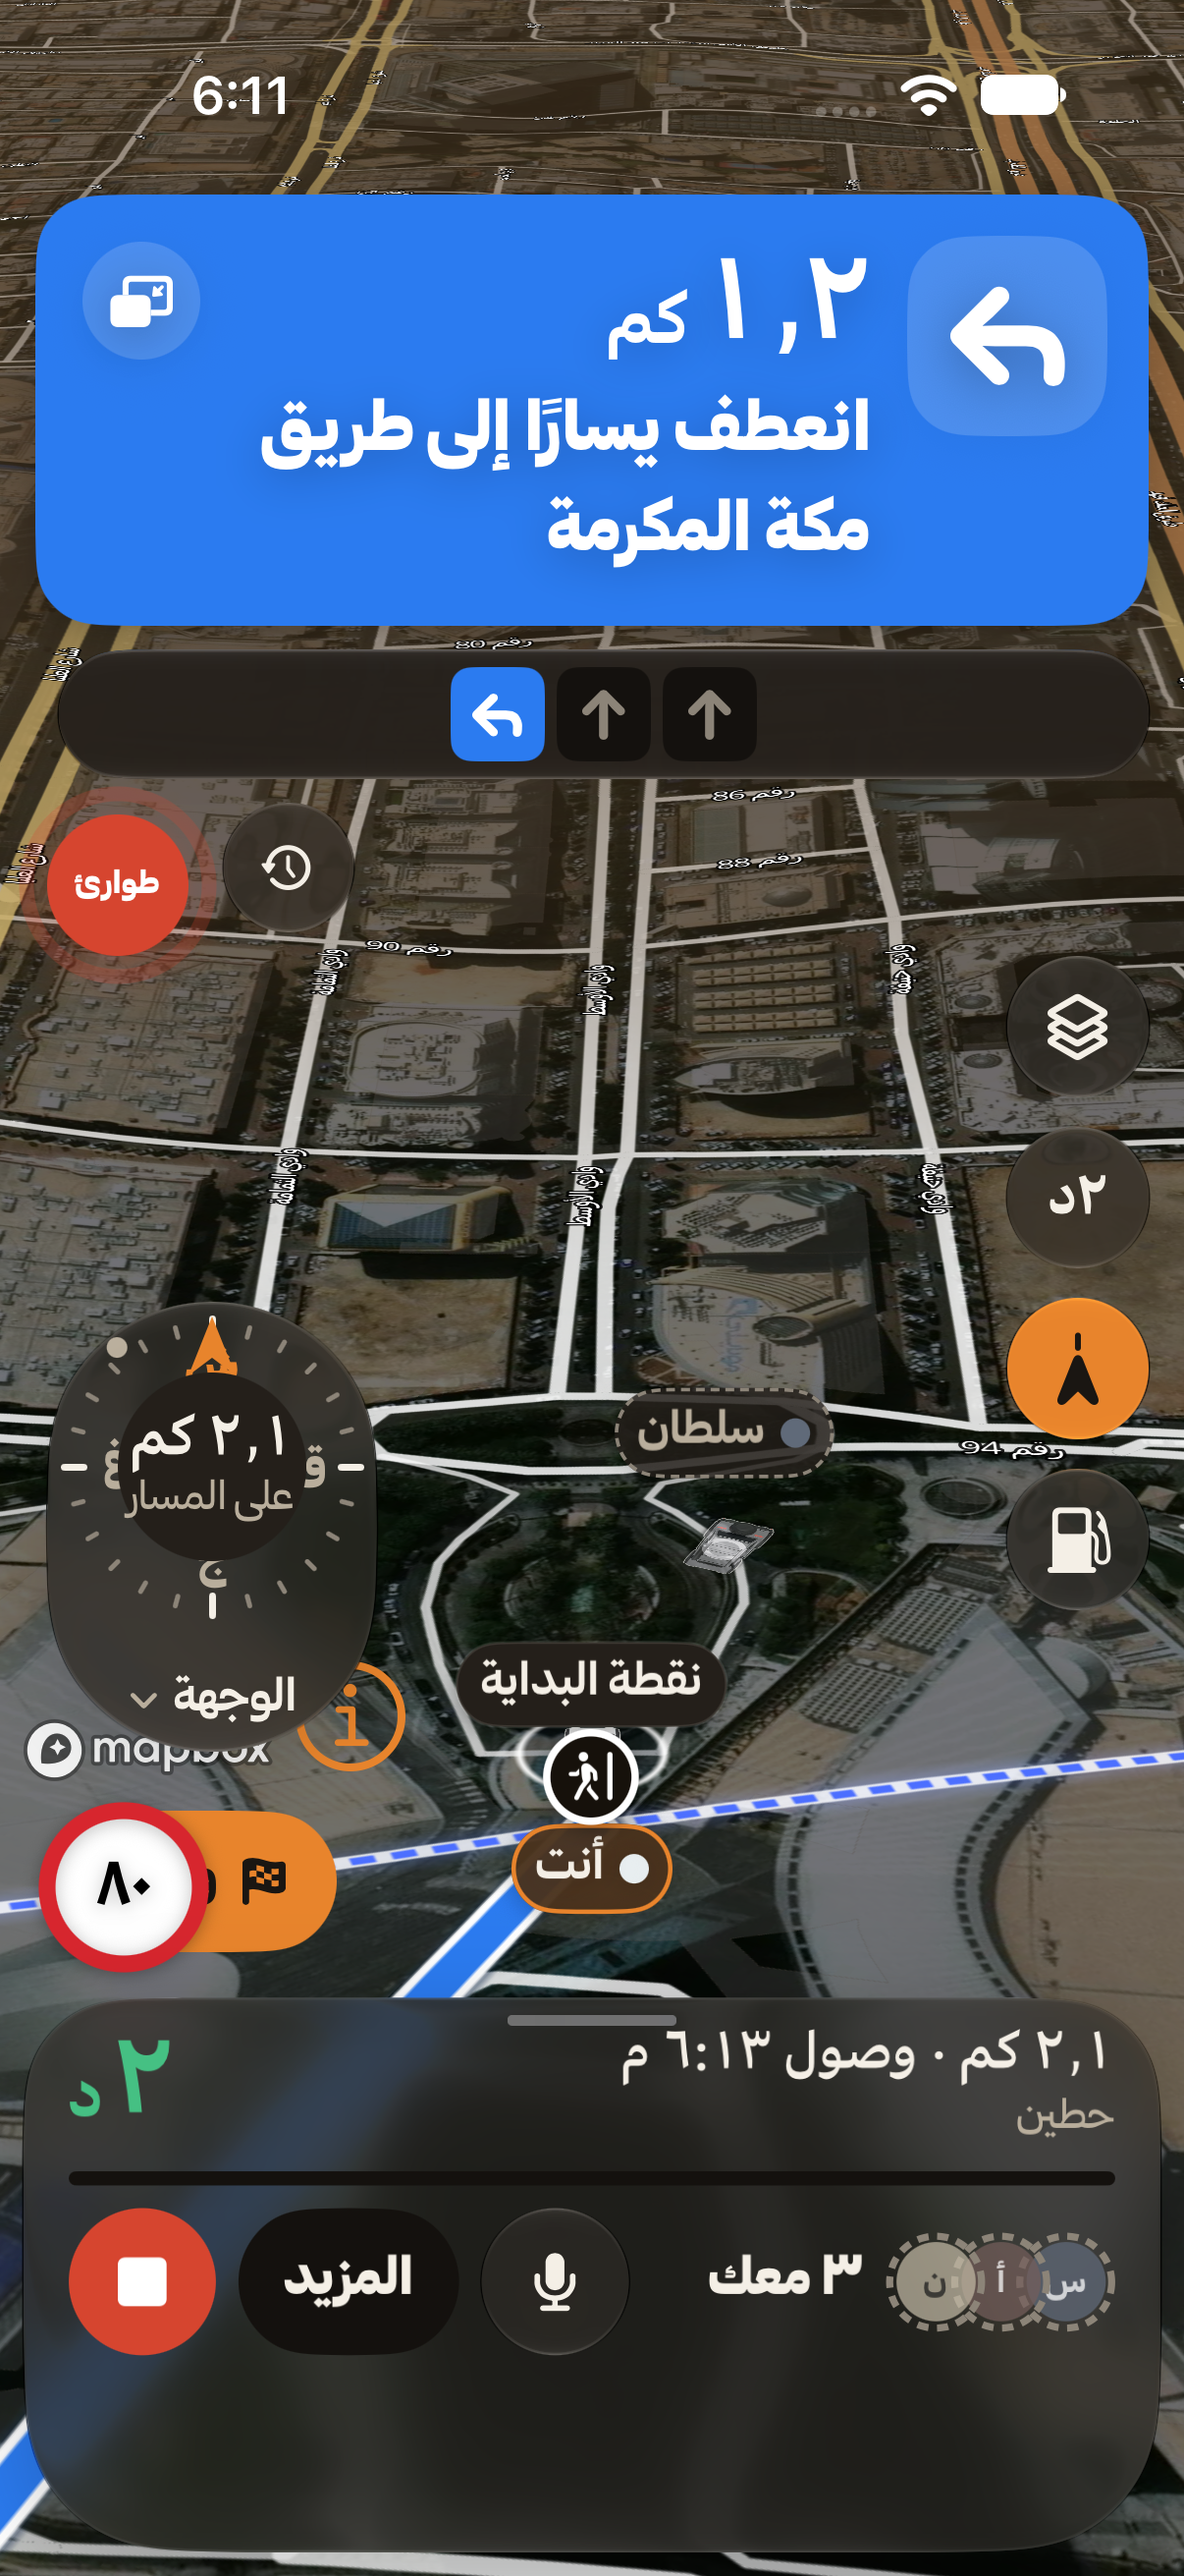
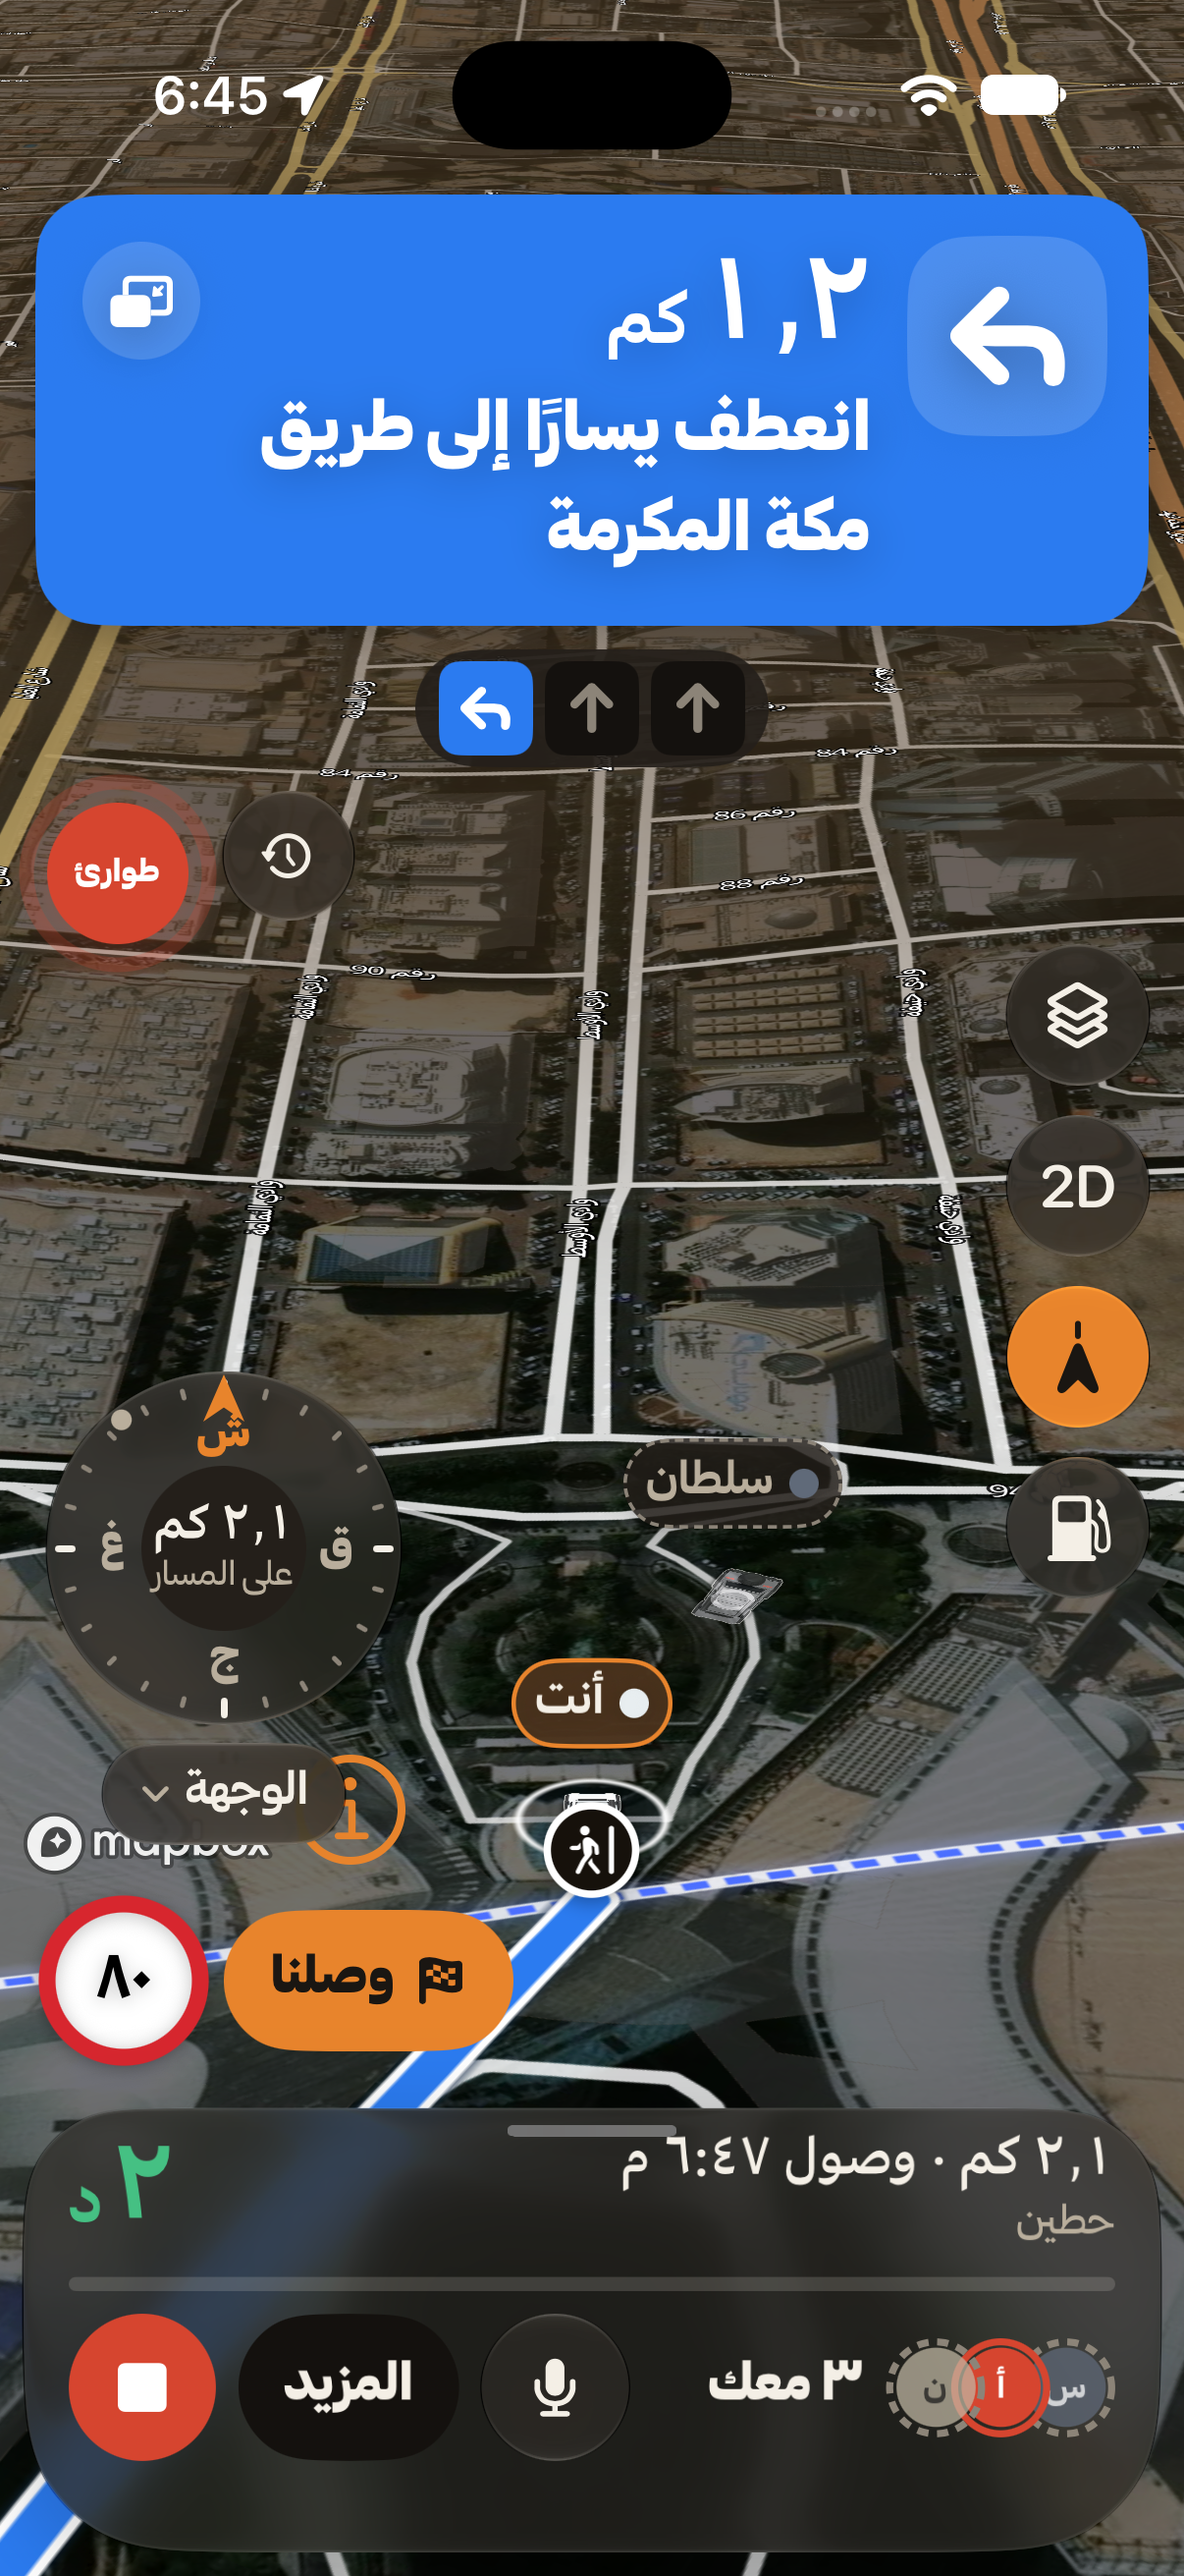
Compass-round merged behind NewUI: flag-off 2D/3D + speed sign unchanged, compass list as an overlay card, trip total counts the off-road leg, tests

diff --git a/apps/ios/SaryAlbarq/Sources/Views/LiveOutingScreen.swift b/apps/ios/SaryAlbarq/Sources/Views/LiveOutingScreen.swift
@@ -350,6 +350,7 @@ struct LiveOutingScreen: View {
                         .padding(.horizontal, 16)
                         .dynamicTypeSize(...DynamicTypeSize.xxLarge)
                         .transition(.opacity)
+                        .zIndex(10) /* the open list stays over the dock row and the speed sign */
                     }
                     if driving, controller.nav.isActive, controller.sheetDetent == .peek, LiveScreenRules.showsConvoyLine(ui.alerts),
                        let line = LiveCalmRules.convoyLine(ui.participantsTab.participants) {
@@ -391,7 +392,7 @@ struct LiveOutingScreen: View {
                         speed: showsSpeedBubble ? LiveFit.speedBubbleWidth : 0,
                         cta: pttPill && hasCTA && ctaCompact ? flow.primary.map { LiveFit.compactCTAWidth(title: $0.title, textScale: LiveFit.textScale(typeSize)) } : nil,
                         cluster: LiveFit.guidingSpeedWidth(guiding: guidingHUD, everRead: controller.speed.everRead, drive: theme.drive,
-                                                           limit: controller.nav.progress?.speedLimitKmh != nil),
+                                                           limit: controller.nav.progress?.speedLimitKmh != nil, signSlot: NewUI.enabled),
                         spacing: theme.space(.s))
                     let ctaOwnRow = dockFit.ctaOwnRow && hasCTA && ctaCompact
                     if ctaOwnRow {
@@ -444,7 +445,7 @@ struct LiveOutingScreen: View {
                             NavSpeedCluster(ui: controller.speedometerUI, limit: controller.nav.progress?.speedLimitKmh)
                                 .chromeFrame("speed")
                                 .transition(.opacity)
-                        } else if guidingHUD, let k = controller.nav.progress?.speedLimitKmh {
+                        } else if NewUI.enabled, guidingHUD, let k = controller.nav.progress?.speedLimitKmh {
                             /* Guiding with no speed read yet: the posted limit alone, in the speed's own slot of
                              * the row (budgeted by `LiveFit.guidingSpeedWidth`). It used to be an overlay pinned
                              * to the row's trailing corner — where the compact «وصلنا» sits — and covered it. */
@@ -454,6 +455,15 @@ struct LiveOutingScreen: View {
                         }
                         /* No side row at the sheet's middle height (UI-AUDIT م3): the camera is on the map,
                          * «طريق الرجعة» is the side shortcut or «المزيد» → «الطريق». */
+                    }
+                    .overlay(alignment: .topTrailing) {
+                        /* Flag off (previous design): the posted limit alone is pinned over the row's corner, as before. */
+                        if !NewUI.enabled, guidingHUD, !controller.speed.everRead, let k = controller.nav.progress?.speedLimitKmh {
+                            NavSpeedLimitSign(kmh: k)
+                                .chromeFrame("speedlimit")
+                                .alignmentGuide(.top) { $0[.bottom] + 8 }
+                                .transition(SaryTransition.chipPop(theme))
+                        }
                     }
                     /* The primary morphs between states («ابدأ الطلعة» → «وين رايحين؟» → «وصلنا»): the dock
                      * re-lays out in the same transaction, so the talk pill gives way smoothly. */

diff --git a/apps/ios/SaryAlbarq/Sources/Navigation/DestinationCompassView.swift b/apps/ios/SaryAlbarq/Sources/Navigation/DestinationCompassView.swift
@@ -269,6 +269,7 @@ struct DestinationCompassView: View {
     /// The target list (a popover, not a `Menu`: a Menu label gets the system's capsule background on
     /// iOS 26, which squeezed the round dial into a pill and clipped «غ» / «ق» — owner report, Build 46).
     @State private var choosing = false
+    @State private var listHeight: CGFloat = 300
 
     static let dial: CGFloat = 120
 
@@ -280,7 +281,7 @@ struct DestinationCompassView: View {
     private static let letters = [Letter(text: "ش", deg: 0), Letter(text: "ق", deg: 90), Letter(text: "ج", deg: 180), Letter(text: "غ", deg: 270)]
 
     var body: some View {
-        Button { choosing = true } label: {
+        Button { withAnimation(theme.animation(.snappy)) { choosing.toggle() } } label: {
             VStack(spacing: 6) {
                 dialView
                 chip
@@ -298,16 +299,25 @@ struct DestinationCompassView: View {
             }
             .contentShape(Rectangle())
         }
-        .popover(isPresented: $choosing, arrowEdge: .bottom) {
-            targetList
-                .presentationCompactAdaptation(.popover)
-        }
         .buttonStyle(SaryPressStyle())
         .accessibilityElement(children: .ignore)
         .accessibilityLabel(Text(accessibility))
         .accessibilityHint(Text("اضغط تختار وين تأشر البوصلة: الوجهة، الرجعة، القبلة، أقرب مطر، أقرب ربيع"))
         .accessibilityAddTraits(.isButton)
         .accessibilityIdentifier("live.compass")
+        /* The list is a card over the map, just above the dial. (A `.popover` presented from here dismissed the live
+         * sheet under it and never appeared on the simulator.) */
+        .overlay(alignment: .topTrailing) {
+            if choosing {
+                /* Trailing edges meet (the dial is at the screen's left in Arabic, the card grows to the right). */
+                targetList
+                    .saryGlass(RoundedRectangle(cornerRadius: 18, style: .continuous), role: .chrome)
+                    .background(GeometryReader { g in Color.clear.preference(key: CompassListHeightKey.self, value: g.size.height) })
+                    .offset(y: -(listHeight + 10))
+                    .transition(.opacity)
+            }
+        }
+        .onPreferenceChange(CompassListHeightKey.self) { listHeight = $0 }
         .onChange(of: reading.roseDegrees) { _, v in
             withAnimation(theme.animation(.smooth)) { rose = DestinationCompass.unwrap(previous: rose ?? v, next: v) }
         }
@@ -453,4 +463,10 @@ private struct CompassNeedleShape: Shape {
         p.closeSubpath()
         return p
     }
+}
+
+
+private struct CompassListHeightKey: PreferenceKey {
+    static var defaultValue: CGFloat = 300
+    static func reduce(value: inout CGFloat, nextValue: () -> CGFloat) { value = nextValue() }
 }

diff --git a/apps/ios/SaryAlbarq/Sources/Map/MapTilt.swift b/apps/ios/SaryAlbarq/Sources/Map/MapTilt.swift
@@ -163,14 +163,19 @@ final class MapTiltBinding {
 extension SaryMapControlItem {
     /// THE camera-angle button (docs/ONE-MAP-UNIFICATION.md §6): one glyph, one identifier (`map.tilt`), second in the
     /// side column after the layers button on every map. `is3D` is the current choice; the glyph names the view a tap leads to.
-    static func cameraTilt(is3D: Bool, settledPitch: Int? = nil) -> SaryMapControlItem {
+    static func cameraTilt(is3D: Bool, settledPitch: Int? = nil, newUI: Bool = NewUI.enabled) -> SaryMapControlItem {
         var value = CameraTiltRules.value(is3D: is3D)
         #if DEBUG
         if let settledPitch { value += " pitch=\(settledPitch)" }
         #endif
         /* An icon, not «٢د» / «٣د»: beside the guidance bar's «٢ د» (minutes) the text read as a second ETA (owner, Build 46). */
-        return SaryMapControlItem(id: "tilt", systemImage: CameraTiltRules.symbol(is3D: is3D), label: CameraTiltRules.label, accessibilityID: "map.tilt",
-                                  isActive: false, hint: CameraTiltRules.hint(is3D: is3D), value: value)
+        if newUI {
+            return SaryMapControlItem(id: "tilt", systemImage: CameraTiltRules.symbol(is3D: is3D), label: CameraTiltRules.label, accessibilityID: "map.tilt",
+                                      isActive: false, hint: CameraTiltRules.hint(is3D: is3D), value: value)
+        }
+        /* The previous design (flag off): the «٢د» / «٣د» glyph, unchanged. */
+        return SaryMapControlItem(id: "tilt", systemImage: "view.3d", label: CameraTiltRules.label, accessibilityID: "map.tilt",
+                                  isActive: false, hint: CameraTiltRules.hint(is3D: is3D), value: value, glyph: CameraTiltRules.glyph(is3D: is3D))
     }
 }
 

diff --git a/apps/ios/SaryAlbarq/Tests/NavigationTests.swift b/apps/ios/SaryAlbarq/Tests/NavigationTests.swift
@@ -1262,8 +1262,18 @@ final class NavDriveLayoutTests: XCTestCase {
         XCTAssertEqual(NavDriveLayout.friendsLabel(3), "٣ معك")
     }
 
-    func testTheRedesignIsOnByDefault() {
-        /* `-SaryDriveV1` (DEBUG) brings the previous layout back; the unit tests run without it. */
-        XCTAssertEqual(NavDriveLayout.v2, !ProcessInfo.processInfo.arguments.contains("-SaryDriveV1"))
+    func testTheRedesignFollowsTheNewUISwitch() {
+        XCTAssertEqual(NavDriveLayout.v2, NewUI.enabled, "off by default: the previous driving layout")
+    }
+
+    func testProgressCountsTheOffRoadLegInTheTotal() {
+        /* A route whose last part is off-road without a road: `remainingMeters` counts that leg, so the total must too,
+         * or the bar stays at zero until the road left is shorter than the leg. */
+        XCTAssertEqual(NavDriveLayout.tripTotal(roadM: 10_000, offRoadM: 4_000), 14_000)
+        XCTAssertEqual(NavDriveLayout.tripTotal(roadM: 10_000, offRoadM: nil), 10_000)
+        XCTAssertNil(NavDriveLayout.tripTotal(roadM: nil, offRoadM: 4_000))
+        let total = NavDriveLayout.tripTotal(roadM: 10_000, offRoadM: 4_000)
+        XCTAssertEqual(NavDriveLayout.progress(totalM: total, remainingM: 13_000) ?? -1, 1.0 / 14.0, accuracy: 0.0001, "1 km driven: not zero")
+        XCTAssertEqual(NavDriveLayout.progress(totalM: 10_000, remainingM: 13_000), 0, "the old total: stuck at zero")
     }
 }

diff --git a/apps/ios/SaryAlbarq/Sources/Navigation/NavGuidanceViews.swift b/apps/ios/SaryAlbarq/Sources/Navigation/NavGuidanceViews.swift
@@ -227,6 +227,11 @@ enum NavDriveLayout {
     /// The thin progress bar's row on an all-asphalt route, with the spacing above it.
     static let progressExtra: CGFloat = progressBarHeight + barSpacing
 
+    /// The trip's whole length: the road plus a final off-road leg (`remainingMeters` counts that leg too).
+    static func tripTotal(roadM: Double?, offRoadM: Double?) -> Double? {
+        roadM.map { $0 + (offRoadM ?? 0) }
+    }
+
     /// Share of the trip already driven (0…1), for the thin bar on a route without dirt.
     static func progress(totalM: Double?, remainingM: Double?) -> Double? {
         guard let t = totalM, t > 0, let r = remainingM else { return nil }
@@ -857,7 +862,7 @@ struct NavBottomBar: View {
                  * until the road left was shorter than that leg. */
                 if surfaces, let ahead = nav.surfaceAhead {
                     NavSurfaceAheadStrip(ui: ahead)
-                } else if let done = NavDriveLayout.progress(totalM: nav.active.map { $0.distanceM + (nav.offRoad?.distanceM ?? 0) },
+                } else if let done = NavDriveLayout.progress(totalM: NavDriveLayout.tripTotal(roadM: nav.active?.distanceM, offRoadM: nav.offRoad?.distanceM),
                                                              remainingM: nav.remainingMeters) {
                     progressBar(done)
                 }

diff --git a/apps/ios/SaryAlbarq/Tests/MapTiltTests.swift b/apps/ios/SaryAlbarq/Tests/MapTiltTests.swift
@@ -74,13 +74,15 @@ final class MapTiltTests: XCTestCase {
     func testTheButtonNamesTheViewATapLeadsTo() {
         XCTAssertEqual(CameraTiltRules.glyph(is3D: false), "٣د")
         XCTAssertEqual(CameraTiltRules.glyph(is3D: true), "٢د")
-        let flat = SaryMapControlItem.cameraTilt(is3D: false)
+        let old = SaryMapControlItem.cameraTilt(is3D: false, newUI: false)
+        XCTAssertEqual(old.glyph, "٣د", "flag off: unchanged")
+        let flat = SaryMapControlItem.cameraTilt(is3D: false, newUI: true)
         XCTAssertEqual(flat.accessibilityID, "map.tilt")
         XCTAssertNil(flat.glyph, "an icon, not «٣د»: it read as minutes beside the ETA")
         XCTAssertEqual(flat.systemImage, "view.3d")
-        XCTAssertEqual(SaryMapControlItem.cameraTilt(is3D: true).systemImage, "view.2d")
+        XCTAssertEqual(SaryMapControlItem.cameraTilt(is3D: true, newUI: true).systemImage, "view.2d")
         XCTAssertFalse(flat.label.isEmpty, "an accessible label")
-        XCTAssertNotEqual(SaryMapControlItem.cameraTilt(is3D: true), flat)
+        XCTAssertNotEqual(SaryMapControlItem.cameraTilt(is3D: true, newUI: true), flat)
     }
 
     func testTiltSitsRightAfterLayersInEveryColumn() {

diff --git a/apps/ios/SaryAlbarq/Sources/Live/LiveOutingController+Declutter.swift b/apps/ios/SaryAlbarq/Sources/Live/LiveOutingController+Declutter.swift
@@ -385,10 +385,11 @@ enum LiveFit {
 
     /// The guiding speed slot at the dock row's end: the speed cluster once a speed was read, the
     /// posted limit sign alone before that (it sits in the row, never over the compact primary).
-    static func guidingSpeedWidth(guiding: Bool, everRead: Bool, drive: Bool, limit: Bool) -> CGFloat {
+    /// `signSlot` false (the previous design): the sign is an overlay, no slot in the row.
+    static func guidingSpeedWidth(guiding: Bool, everRead: Bool, drive: Bool, limit: Bool, signSlot: Bool = true) -> CGFloat {
         guard guiding else { return 0 }
         if everRead { return navSpeedClusterWidth(drive: drive, limit: limit) }
-        return limit ? speedLimitSignWidth(drive: drive) : 0
+        return limit && signSlot ? speedLimitSignWidth(drive: drive) : 0
     }
 
     /// The compact primary pill (`OutingPrimaryCTA(compact: true)`): 16 pt icon, 6 pt gap, 2 × 16 pt

diff --git a/apps/ios/SaryAlbarq/UITests/NewGuidanceUITests.swift b/apps/ios/SaryAlbarq/UITests/NewGuidanceUITests.swift
@@ -97,4 +97,20 @@ final class NewGuidanceUITests: XCTestCase {
         shot(app, "end-sheet")
         app.terminate()
     }
+
+    /// The compass closed (in every shot above) and open: the five options, the chosen one marked.
+    func testCompassMenuOpens() throws {
+        let app = launch()
+        let compass = el(app, "live.compass")
+        guard compass.waitForExistence(timeout: 25) else { throw XCTSkip("no recent GPS fix: the compass is hidden by design") }
+        XCTAssertTrue(compass.isHittable)
+        compass.tap()
+        sleep(1)
+        shot(app, "compass-menu")
+        for id in ["destination", "back", "qibla", "rain", "spring"] {
+            XCTAssertTrue(el(app, "live.compass.\(id)").waitForExistence(timeout: 5), id)
+        }
+        XCTAssertTrue(el(app, "live.compass.qibla").isEnabled)
+        app.terminate()
+    }
 }

diff --git a/apps/ios/SaryAlbarq/UITests/DestinationCompassUITests.swift b/apps/ios/SaryAlbarq/UITests/DestinationCompassUITests.swift
@@ -9,7 +9,7 @@ final class DestinationCompassUITests: XCTestCase {
     func testCompassWhileDrivingOpensTheTargets() throws {
         let app = XCUIApplication()
         app.launchArguments = ["-resetState", "-demo", "-SaryWeatherDemo", "calm", "-SaryWeather", "none", "-SaryScheme", "dark",
-                               "-SaryDrive", "1", "-SaryContext", "driving"]
+                               "-SaryDrive", "1", "-SaryContext", "driving", "-SaryNewUI"]
         app.launch()
         app.allowLocationIfAsked()
         let compass = el(app, "live.compass")
